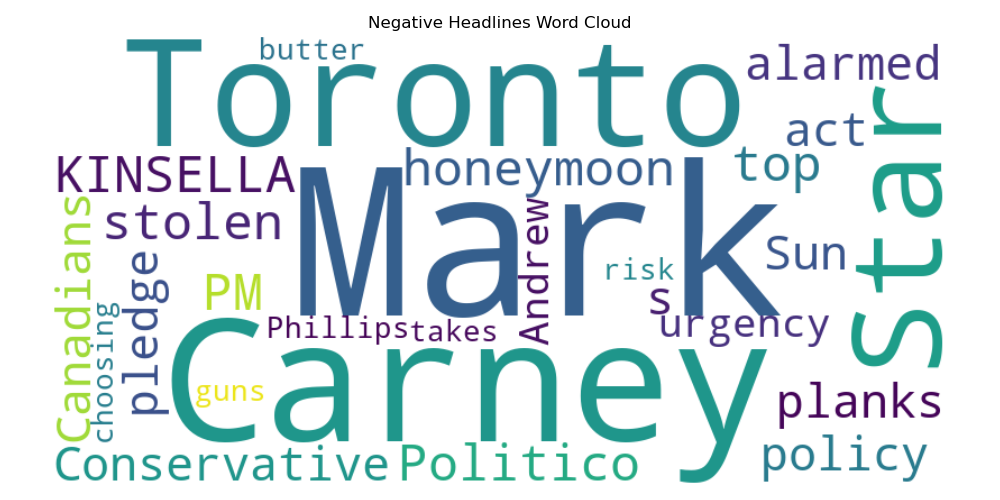
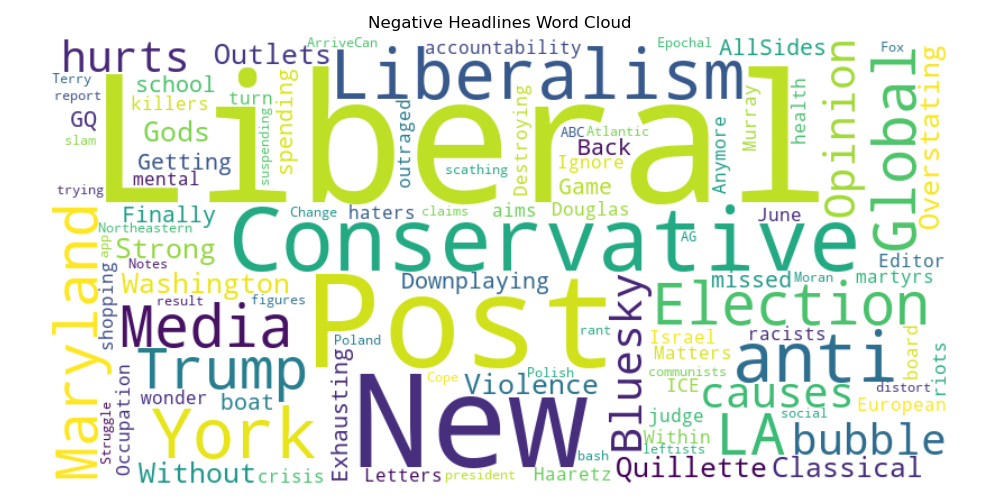
consolidated dataframes

diff --git a/main.py b/main.py
@@ -20,7 +20,7 @@ def main():
     Returns:
         None: Executes the complete sentiment analysis workflow and saves results
     """
-    topic = "Mark Carney"        # ← change to any topic
+    topic = "Liberals"        # ← change to any topic
     max_results = 50          # ← number of items per source
 
     os.makedirs('data', exist_ok=True)
@@ -32,15 +32,15 @@ def main():
         try:
             df = fetch(topic, max_results)
             dataframes.append(df)
-            source_label = df['source'].iloc[0].replace(' ', '_').lower()
-            df.to_csv(f'data/{source_label}_raw.csv', index=False)
         except Exception as e:
             print(f"Error fetching from {fetch.__name__}: {e}")
 
+    # Combine all data sources and analyze sentiment
     all_df = pd.concat(dataframes, ignore_index=True)
     all_df = analyze_sentiment(all_df)
 
-    all_df.to_csv('data/all_sentiment.csv', index=False)
+    # Save the complete dataset with sentiment analysis
+    all_df.to_csv('data/news_with_sentiment.csv', index=False)
 
     print("\nOverall Sentiment Counts:")
     print(all_df['sentiment'].value_counts(), "\n")
